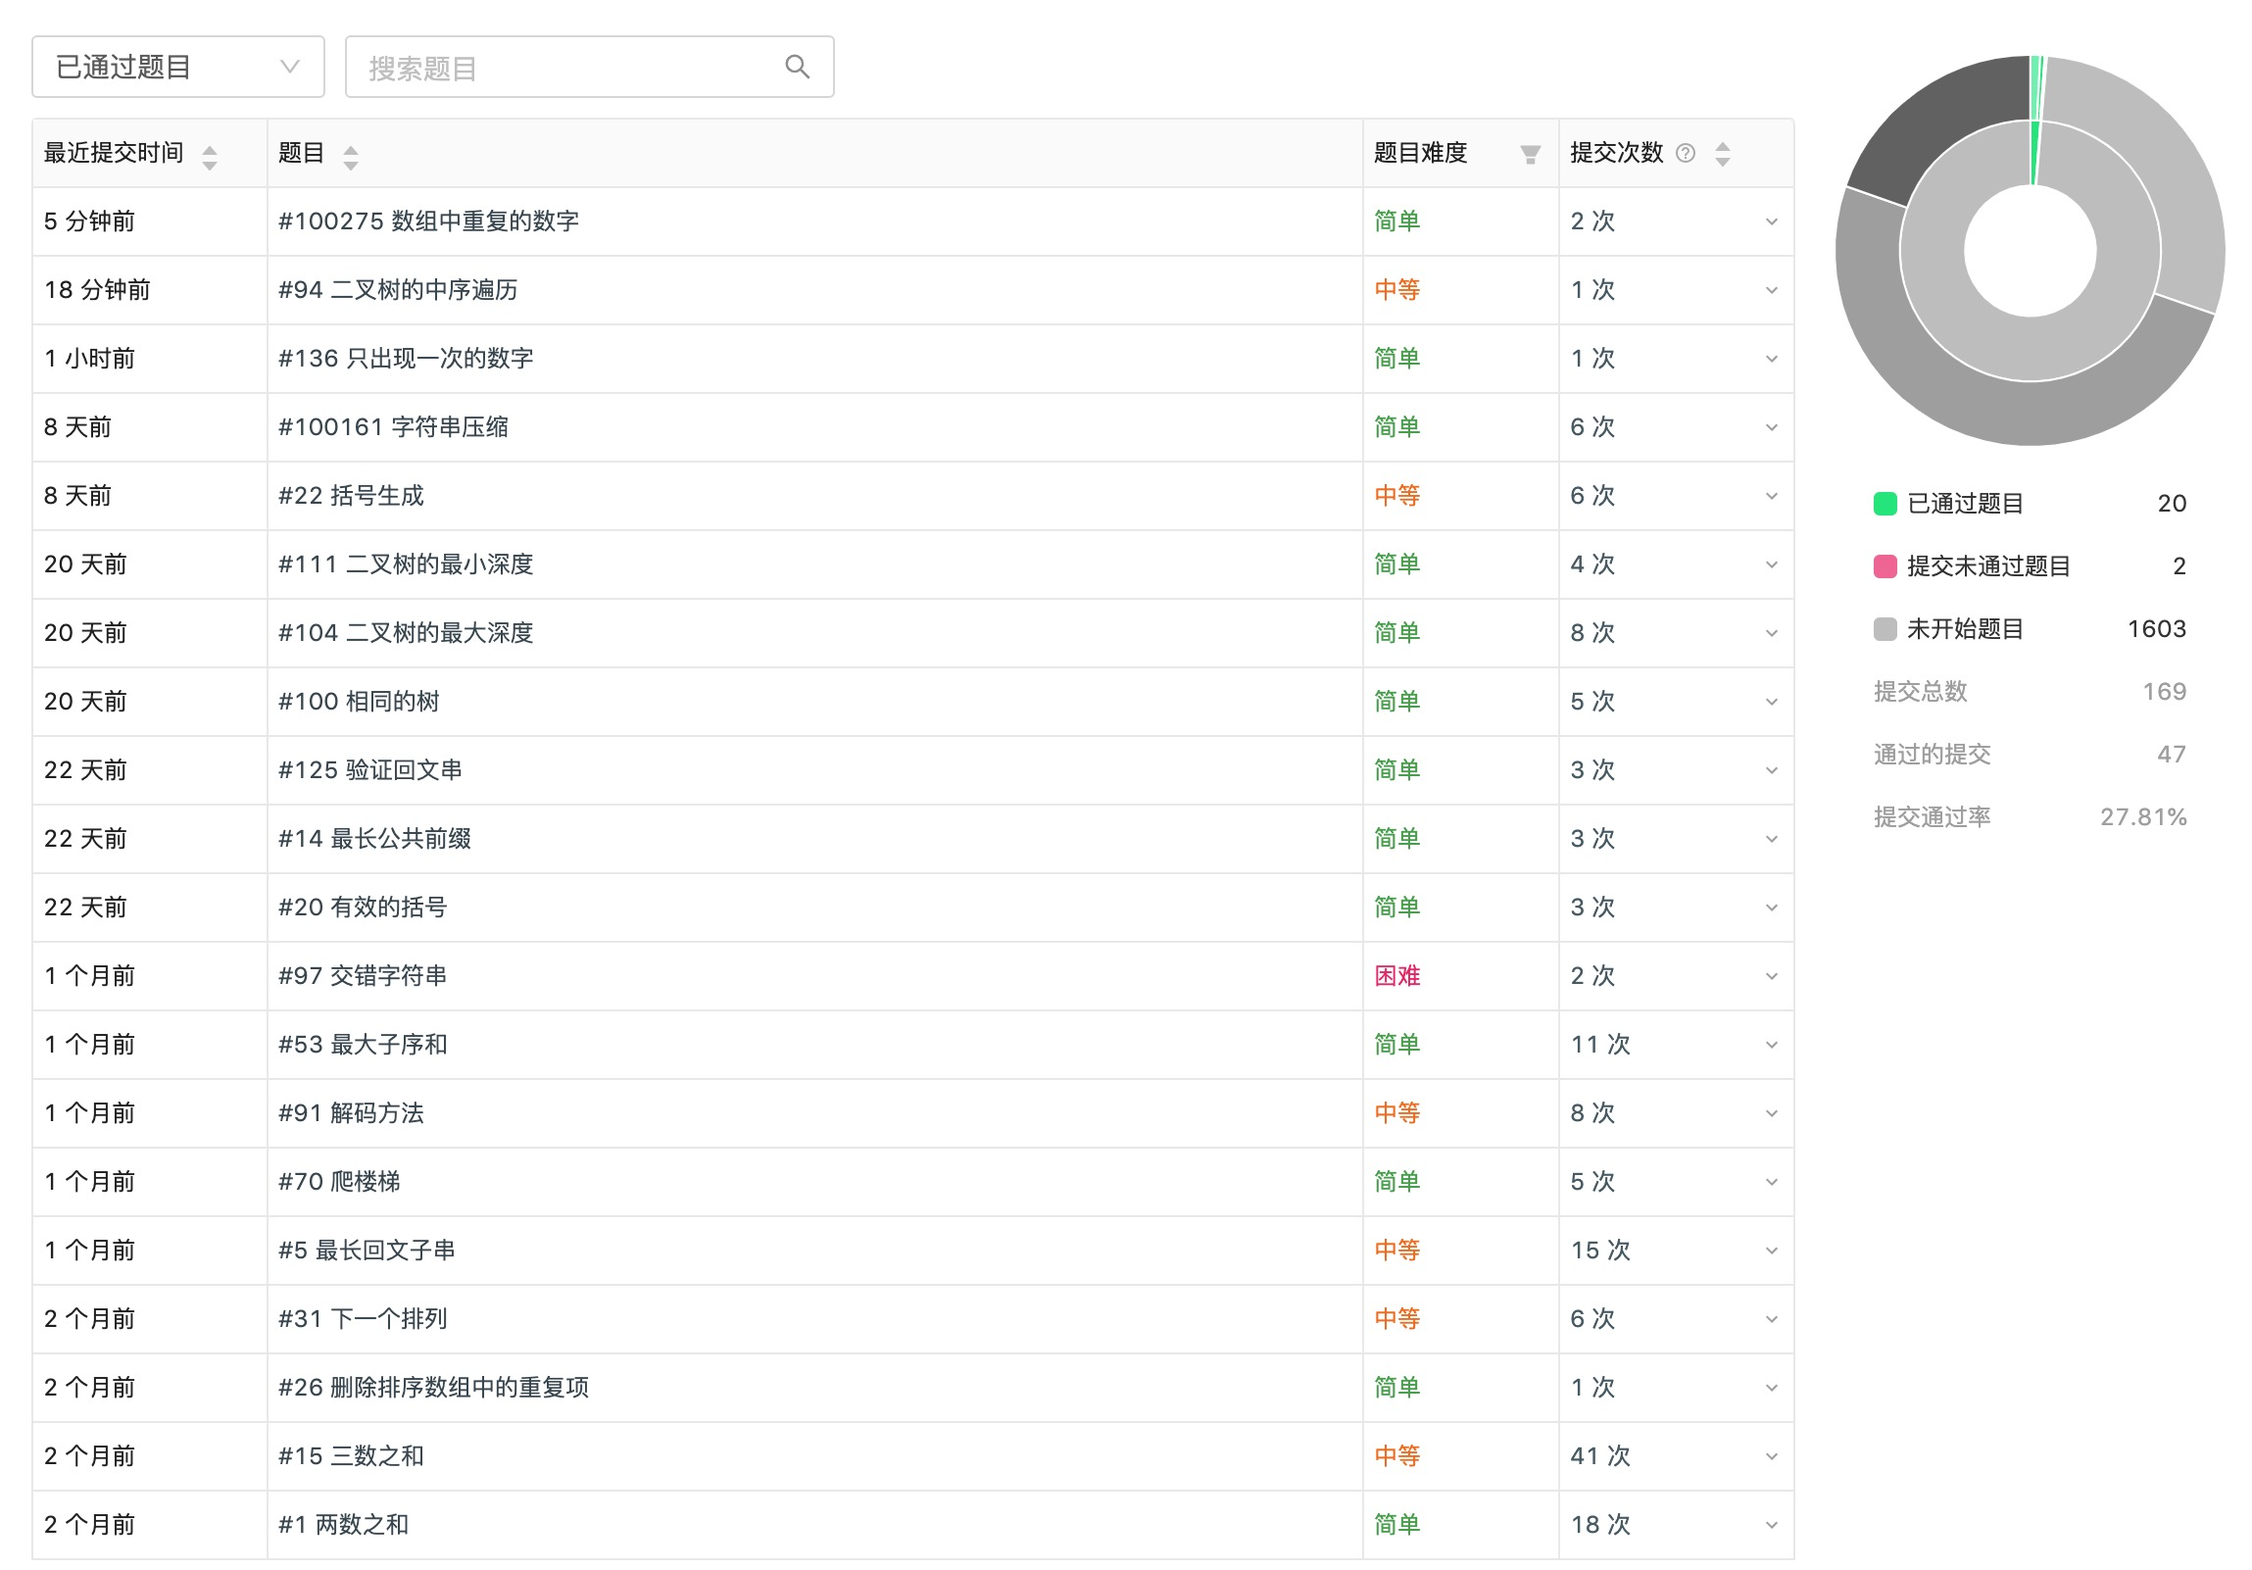
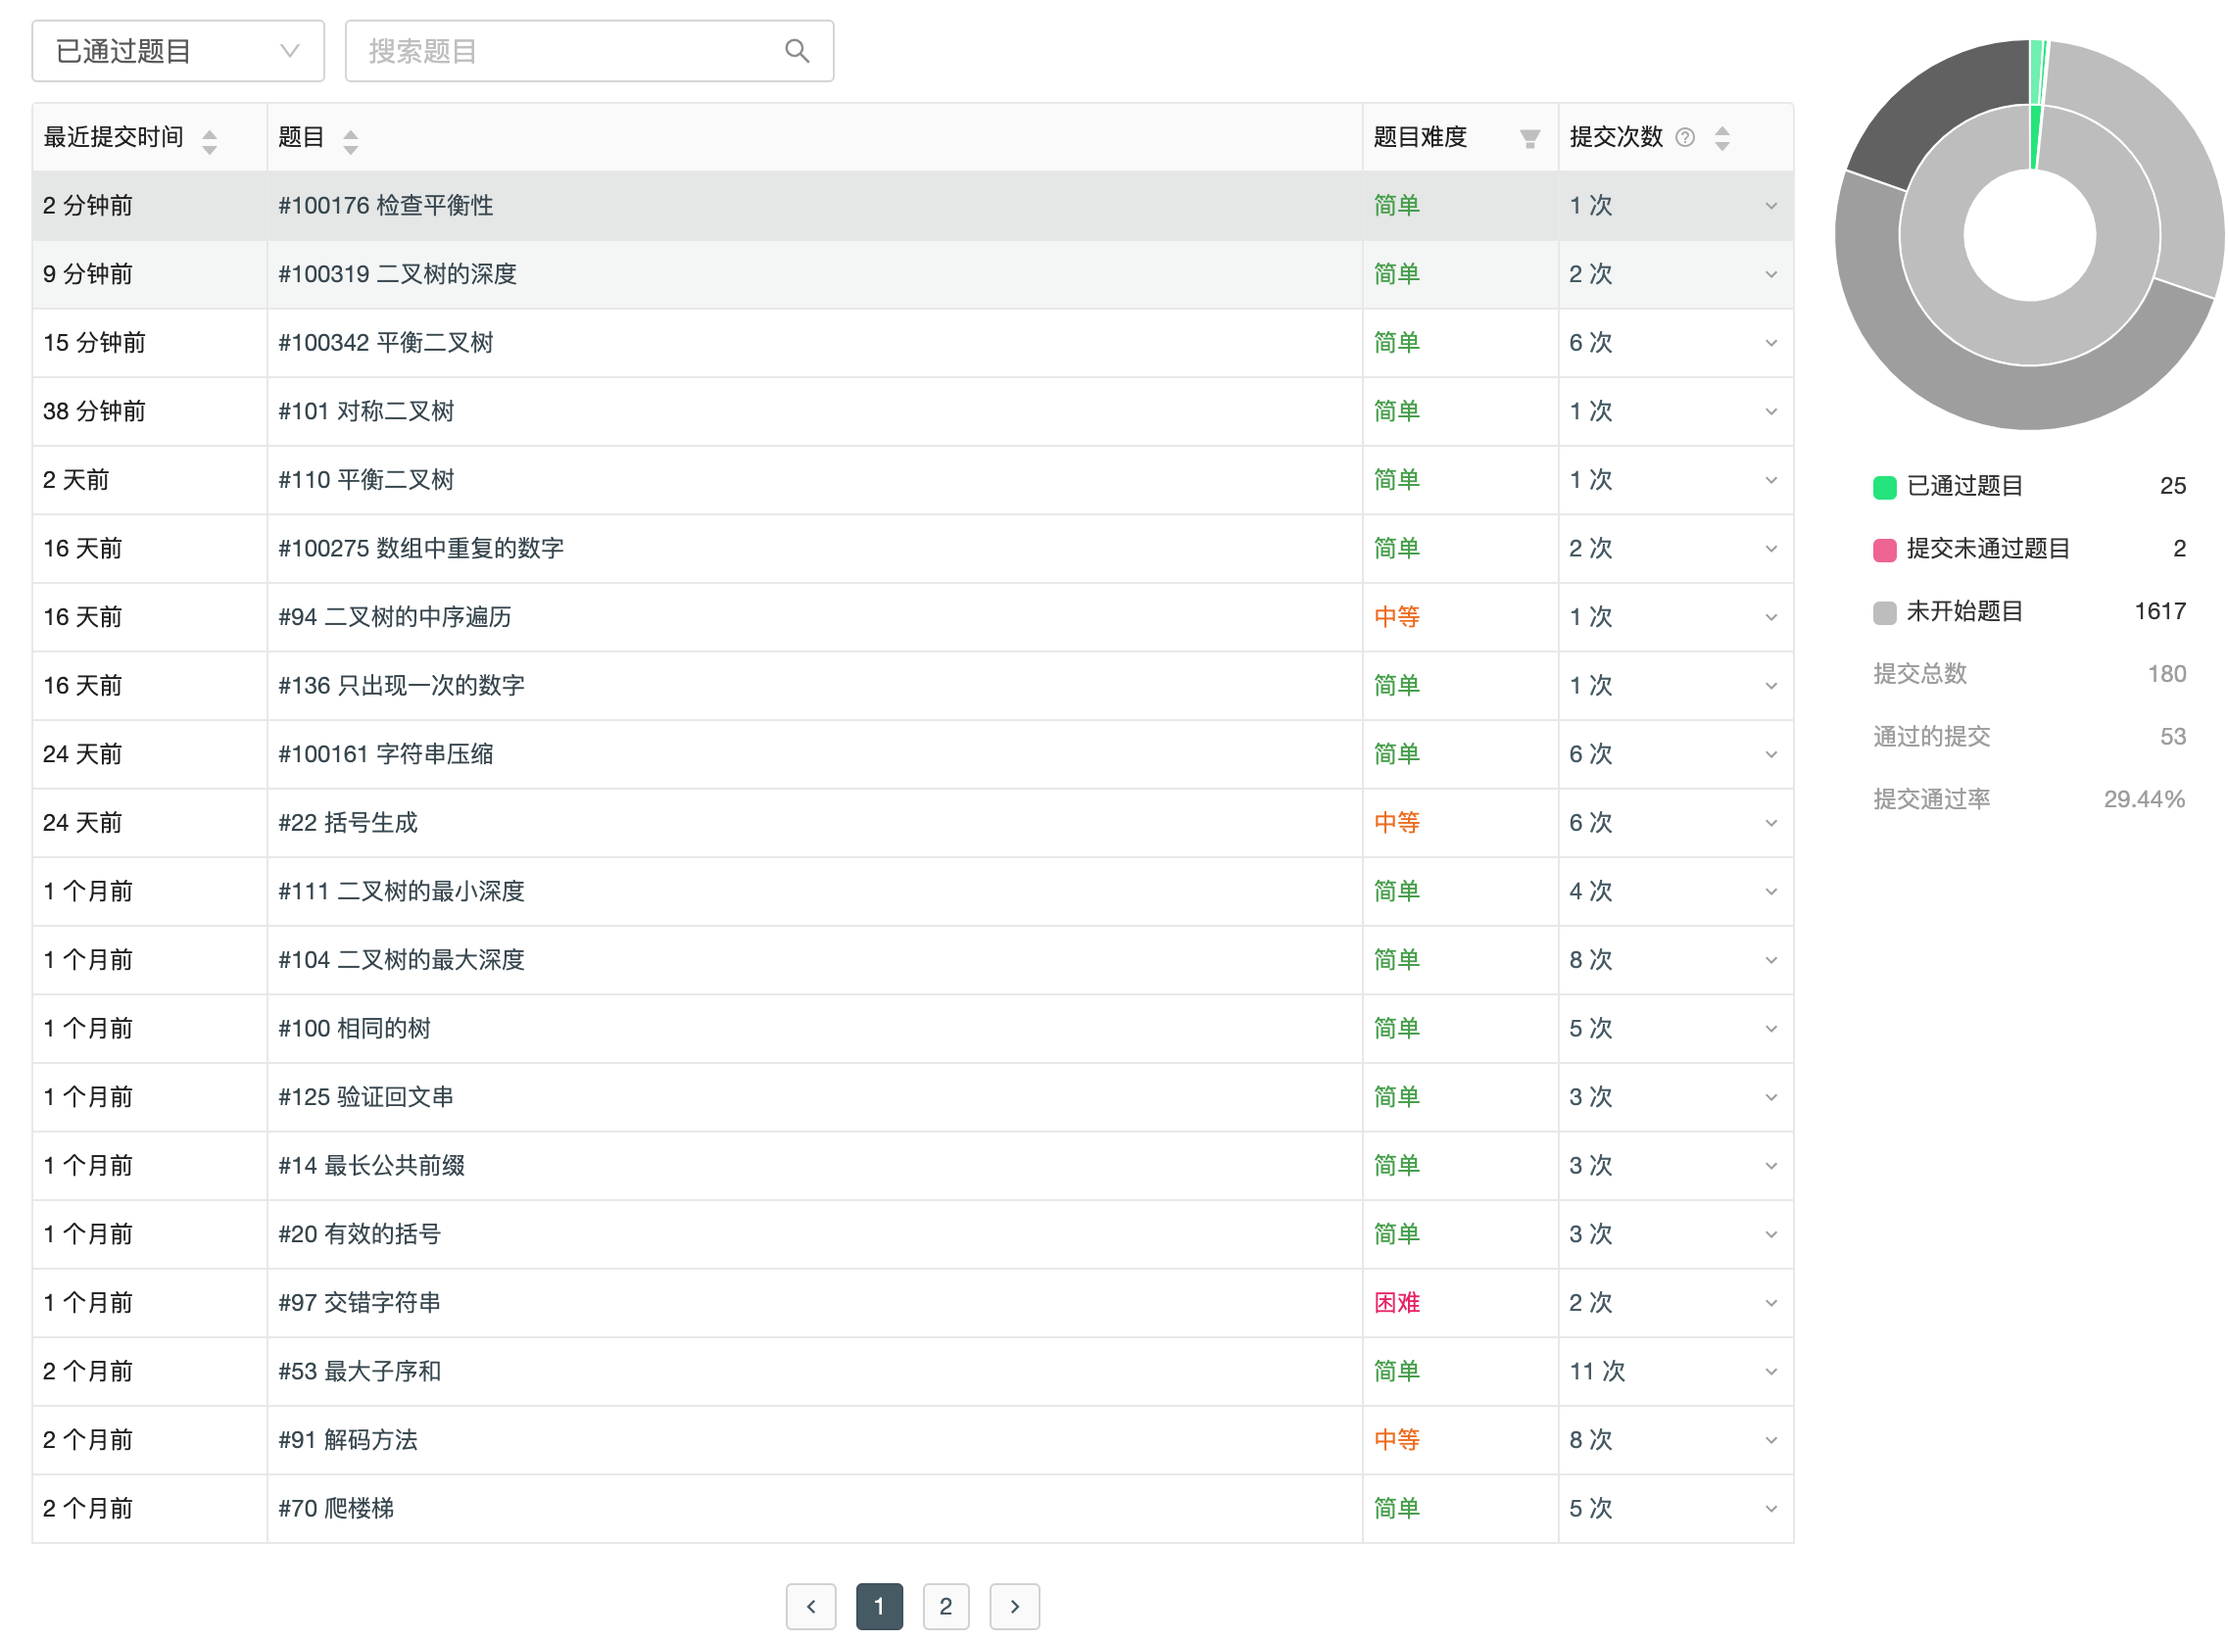
dfs

diff --git a/huyi/week7-dfs/对称二叉树.md b/huyi/week7-dfs/对称二叉树.md
@@ -1,0 +1,84 @@
+## 对称二叉树
+
+### 题目
+```javascript
+//给定一个二叉树，检查它是否是镜像对称的。
+//
+// 例如，二叉树 [1,2,2,3,4,4,3] 是对称的。
+//
+//     1
+//   / \
+//  2   2
+// / \ / \
+//3  4 4  3
+//
+//
+// 但是下面这个 [1,2,2,null,3,null,3] 则不是镜像对称的:
+//
+//     1
+//   / \
+//  2   2
+//   \   \
+//   3    3
+//
+//
+// 说明:
+//
+// 如果你可以运用递归和迭代两种方法解决这个问题，会很加分。
+// Related Topics 树 深度优先搜索 广度优先搜索
+
+
+//leetcode submit region begin(Prohibit modification and deletion)
+/**
+ * Definition for a binary tree node.
+ * function TreeNode(val) {
+ *     this.val = val;
+ *     this.left = this.right = null;
+ * }
+ */
+/**
+ * @param {TreeNode} root
+ * @return {boolean}
+ */
+var isSymmetric = function (root) {
+  return isCompareRoot(root, root);
+};
+
+var isCompareRoot = function (node1, node2) {
+  if (node1 === null && node2 === null) return true;
+  if (node1 === null || node2 === null) return false;
+
+  return node1.val === node2.val && isCompareRoot(node1.left, node2.right) && isCompareRoot(node1.right, node2.left);
+};
+//leetcode submit region end(Prohibit modification and deletion)
+```
+
+### 概念
+- 它们的两个根结点具有相同的值。
+- 每个树的右子树都与另一个树的左子树镜像对称。
+![平衡二叉树](./平衡二叉树.png)
+
+### 思路
+- 左右节点是否都有值；
+- 左右父节点值是否相等；
+- 左右节点子左右值是否刚好相反；
+```javascript
+var isCompareRoot = function (node1, node2) {
+  // 节点同为空
+  if (node1 === null && node2 === null) return true;
+  // 节点其中之一为空
+  if (node1 === null || node2 === null) return false;
+
+  // 比较父节点值是否相等 
+  // 比较子左右节点是否相反
+  return node1.val === node2.val && isCompareRoot(node1.left, node2.right) && isCompareRoot(node1.right, node2.left);
+};
+
+var isSymmetric = function (root) {
+  return isCompareRoot(root, root);
+};
+```
+
+### 复杂度分析
+- 时间复杂度：`O(n)`，因为我们遍历整个输入树一次，所以总的运行时间为 `O(n)`，其中 n 是树中结点的总数。
+- 空间复杂度：递归调用的次数受树的高度限制。在最糟糕情况下，树是线性的，其高度为 `O(n)`。因此，在最糟糕的情况下，由栈上的递归调用造成的空间复杂度为 `O(n)`。

diff --git a/huyi/week7-dfs/二叉树的深度.md b/huyi/week7-dfs/二叉树的深度.md
@@ -1,0 +1,67 @@
+## 二叉树的深度
+
+### 题目
+```javascript
+//输入一棵二叉树的根节点，求该树的深度。从根节点到叶节点依次经过的节点（含根、叶节点）形成树的一条路径，最长路径的长度为树的深度。
+//
+// 例如：
+//
+// 给定二叉树 [3,9,20,null,null,15,7]，
+//
+//     3
+//   / \
+//  9  20
+//    /  \
+//   15   7
+//
+// 返回它的最大深度 3 。
+//
+//
+//
+// 提示：
+//
+//
+// 节点总数 <= 10000
+//
+//
+// 注意：本题与主站 104 题相同：https://leetcode-cn.com/problems/maximum-depth-of-binary-tre
+//e/
+// Related Topics 树 深度优先搜索
+
+
+//leetcode submit region begin(Prohibit modification and deletion)
+/**
+ * Definition for a binary tree node.
+ * function TreeNode(val) {
+ *     this.val = val;
+ *     this.left = this.right = null;
+ * }
+ */
+/**
+ * @param {TreeNode} root
+ * @return {number}
+ */
+var maxDepth = function (root) {
+};
+//leetcode submit region end(Prohibit modification and deletion)
+```
+
+### 概念
+- 从根节点到叶节点依次经过的节点（含根、叶节点）形成树的一条路径，最长路径的长度为树的深度。
+
+### 题解
+```javascript
+var maxDepth = function (root) {
+  // 节点为空则不计数
+  if (root === null) return 0;
+  
+  // 递归一次计数一次
+  // 并且记录当前子节点最大深度
+  return 1 + Math.max(maxDepth(root.left), maxDepth(root.right));
+};
+```
+
+### 复杂度分析
+- 时间复杂度：我们每个结点只访问一次，因此时间复杂度为 `O(N)`， 其中 `N` 是结点的数量。
+- 空间复杂度：在最糟糕的情况下，树是完全不平衡的，例如每个结点只剩下左子结点，递归将会被调用 `N` 次（树的高度），因此保持调用栈的存储将是 `O(N)`。但在最好的情况下（树是完全平衡的），树的高度将是 `log(N)`。因此，在这种情况下的空间复杂度将是 `O(log(N))`。
+  

diff --git a/huyi/week7-dfs/平衡二叉树.md b/huyi/week7-dfs/平衡二叉树.md
@@ -1,0 +1,89 @@
+## 平衡二叉树
+
+### 题目
+```javascript
+//给定一个二叉树，判断它是否是高度平衡的二叉树。
+//
+// 本题中，一棵高度平衡二叉树定义为：
+//
+//
+// 一个二叉树每个节点 的左右两个子树的高度差的绝对值不超过1。
+//
+//
+// 示例 1:
+//
+// 给定二叉树 [3,9,20,null,null,15,7]
+//
+//     3
+//   / \
+//  9  20
+//    /  \
+//   15   7
+//
+// 返回 true 。
+//
+//示例 2:
+//
+// 给定二叉树 [1,2,2,3,3,null,null,4,4]
+//
+//        1
+//      / \
+//     2   2
+//    / \
+//   3   3
+//  / \
+// 4   4
+//
+//
+// 返回 false 。
+//
+//
+// Related Topics 树 深度优先搜索
+
+
+//leetcode submit region begin(Prohibit modification and deletion)
+/**
+ * Definition for a binary tree node.
+ * function TreeNode(val) {
+ *     this.val = val;
+ *     this.left = this.right = null;
+ * }
+ */
+/**
+ * @param {TreeNode} root
+ * @return {boolean}
+ */
+var isBalanced = function (root) {
+  
+};
+//leetcode submit region end(Prohibit modification and deletion)
+```
+
+### 思路
+- 计算每个节点高度
+![节点高度算法](./节点高度算法.png)
+```javascript
+var getRootHeight = function (node) {
+  if (node === null) return -1;
+
+  return 1 + Math.max(getRootHeight(node.left), getRootHeight(node.right));
+}
+```
+
+- 对比左右节点高度差
+```javascript
+var isBalanced = function (root) {
+  if (root == null) {
+    return true;
+  } else if (Math.abs(getRootHeight(root.left) - getRootHeight(root.right)) > 1) {
+    return false;
+  } else {
+    return isBalanced(root.left) && isBalanced(root.right);
+  }
+};
+```
+
+### 复杂度分析
+
+- 时间复杂度：`O(n)`，计算每棵子树的高度和判断平衡操作都在恒定时间内完成。
+- 空间复杂度：`O(n)`，如果树不平衡，递归栈可能达到 `O(n)`。

diff --git a/huyi/readme.md b/huyi/readme.md
@@ -25,3 +25,8 @@
 
 ## [哈希表](./week6-hash)
 1. [数组中重复的数字](./week6-hash/数组中重复的数字.md)
+
+## [深度优先检索](./week7-dfs)
+1. [二叉树的深度](./week7-dfs/二叉树的深度.md)
+2. [平衡二叉树](./week7-dfs/平衡二叉树.md)
+3. [对称二叉树](./week7-dfs/对称二叉树.md)

diff --git a/huyi/week7-dfs/readme.md b/huyi/week7-dfs/readme.md
@@ -1,0 +1,4 @@
+## 深度优先搜索
+1. [二叉树的深度](./二叉树的深度.md)
+2. [平衡二叉树](./平衡二叉树.md)
+3. [对称二叉树](./对称二叉树.md)
